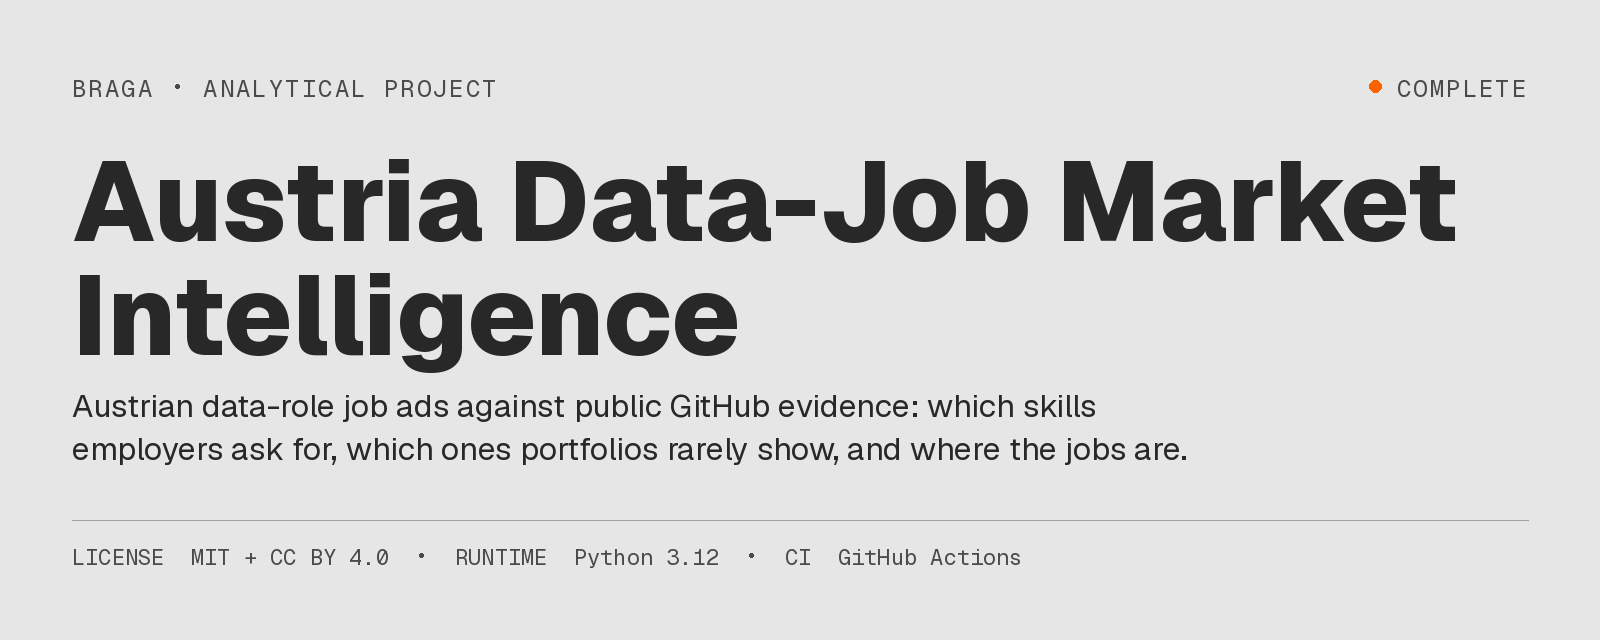
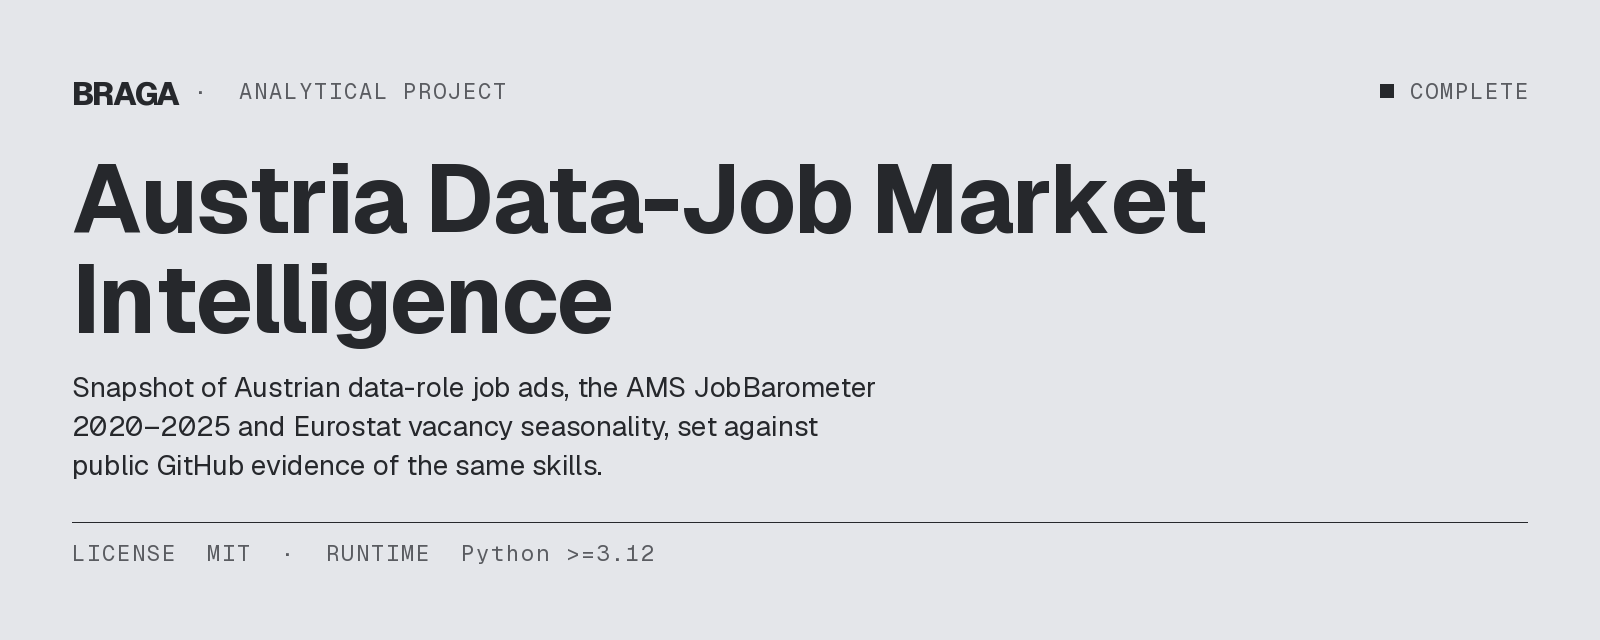
README on the Braga design system v2.1
Banner regenerated on design system v2.1 (BKribitz, status square, no
accent; D-051), shields badges in the neutrals (D-054), Mermaid diagrams
on the site's theme (D-052). Applied by braga-portfolio-docs
`python -m readme_quality fix`; the graph and the prose are unchanged.

Claude-Session: https://claude.ai/code/session_017JXfGqfFadubVauUqq2nZv

diff --git a/README.md b/README.md
@@ -4,10 +4,10 @@
 
 [![tests](https://github.com/RafaelBraga-Kribitz/austria-data-job-market-intelligence/actions/workflows/tests.yml/badge.svg)](https://github.com/RafaelBraga-Kribitz/austria-data-job-market-intelligence/actions/workflows/tests.yml)
 [![README quality gate](https://github.com/RafaelBraga-Kribitz/austria-data-job-market-intelligence/actions/workflows/readme-quality.yml/badge.svg)](https://github.com/RafaelBraga-Kribitz/austria-data-job-market-intelligence/actions/workflows/readme-quality.yml)
-[![License: MIT](https://img.shields.io/badge/license-MIT-green)](LICENSE)
-[![Docs and aggregates: CC BY 4.0](https://img.shields.io/badge/docs%20%26%20aggregates-CC%20BY%204.0-lightgrey)](LICENSE)
-[![Python 3.12](https://img.shields.io/badge/python-3.12-blue)](requirements.txt)
-[![Status: Complete](https://img.shields.io/badge/status-Complete-brightgreen)](#status)
+[![License: MIT](https://img.shields.io/badge/license-MIT-5A5C61?labelColor=26282C)](LICENSE)
+[![Docs and aggregates: CC BY 4.0](https://img.shields.io/badge/docs%20%26%20aggregates-CC%20BY%204.0-5A5C61?labelColor=26282C)](LICENSE)
+[![Python 3.12](https://img.shields.io/badge/python-3.12-5A5C61?labelColor=26282C)](requirements.txt)
+[![Status: Complete](https://img.shields.io/badge/status-Complete-5A5C61?labelColor=26282C)](#status)
 
 **Status:** Complete · Demand snapshot <!--m:_meta.demand_vintage-->2026-10-18<!--/m--> · Supply snapshot <!--m:_meta.supply_vintage-->2026-09-17<!--/m--> · Demand numbers go stale after <!--m:_meta.stale_after_demand-->2027-01-17<!--/m-->
 
@@ -122,6 +122,33 @@ Full descriptions: [docs/methodology.md](docs/methodology.md), [docs/supply-meth
 ## Architecture
 
 ```mermaid
+%%{init: {
+  "theme": "base",
+  "fontFamily": "BKribitz, system-ui, -apple-system, Segoe UI, Helvetica, Arial, sans-serif",
+  "themeVariables": {
+    "background": "#E4E6EA",
+    "primaryColor": "#DCDEE2",
+    "primaryTextColor": "#26282C",
+    "primaryBorderColor": "#26282C",
+    "secondaryColor": "#E4E6EA",
+    "secondaryTextColor": "#26282C",
+    "secondaryBorderColor": "#5A5C61",
+    "tertiaryColor": "#E4E6EA",
+    "tertiaryTextColor": "#26282C",
+    "tertiaryBorderColor": "#C2C4CA",
+    "lineColor": "#5A5C61",
+    "textColor": "#26282C",
+    "mainBkg": "#DCDEE2",
+    "nodeBorder": "#26282C",
+    "clusterBkg": "#E4E6EA",
+    "clusterBorder": "#C2C4CA",
+    "edgeLabelBackground": "#E4E6EA",
+    "titleColor": "#26282C",
+    "fontFamily": "BKribitz, system-ui, -apple-system, Segoe UI, Helvetica, Arial, sans-serif",
+    "fontSize": "14px"
+  },
+  "flowchart": { "curve": "linear", "htmlLabels": true, "padding": 8 }
+}}%%
 flowchart LR
   A["Ad sources (private)<br/>public job boards + AMS feed"] -->|"data/raw (private)"| P["src/pipeline<br/>common schema · rules · de-duplication"]
   O["Open data<br/>AMS JobBarometer · Eurostat"] --> N
